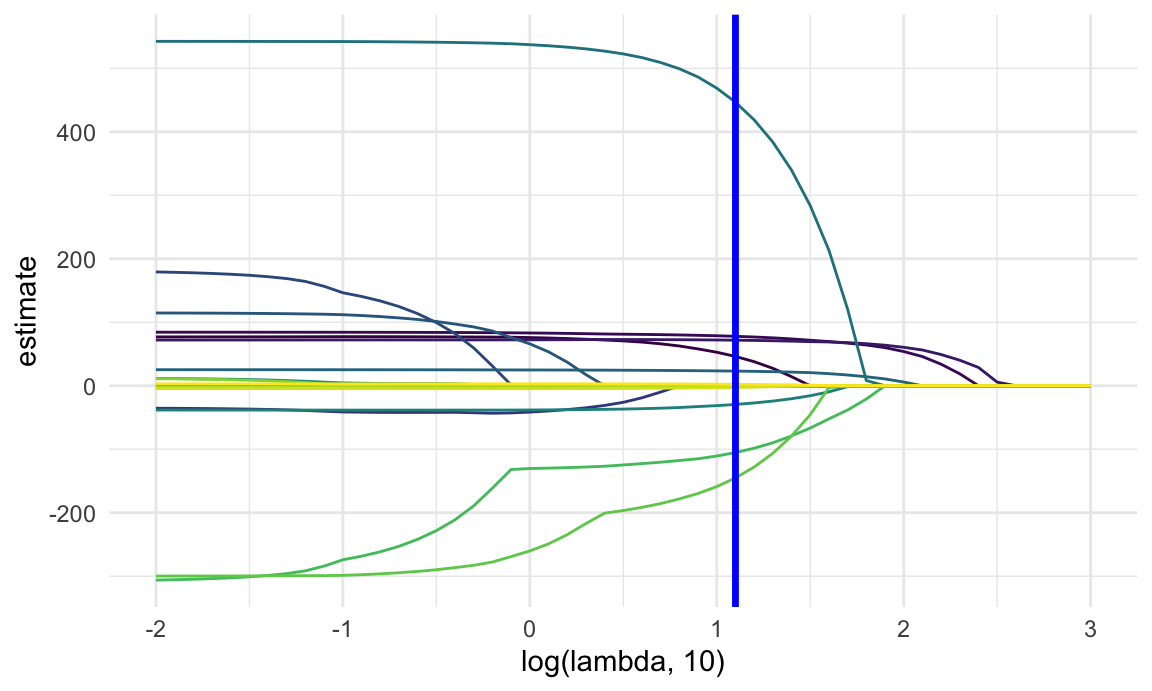
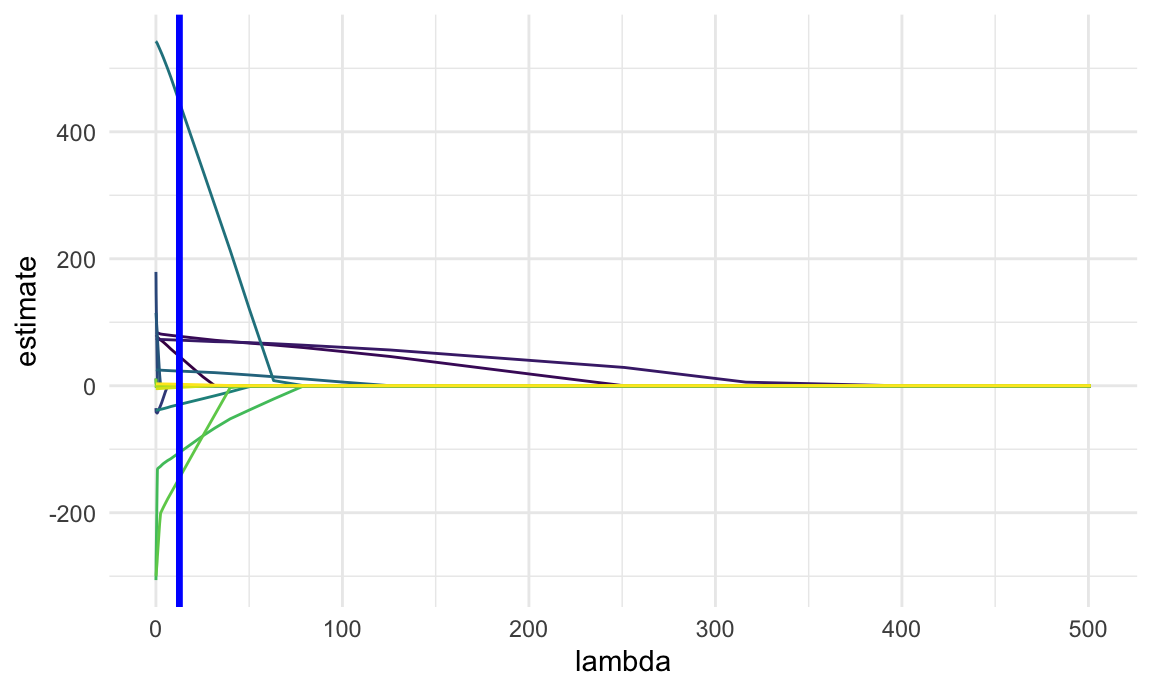
stat learning updates

diff --git a/stat_learning.html b/stat_learning.html
@@ -438,6 +438,16 @@ various goals, including prediction, pattern recognition, and
 classification; they also vary in complexity and interpretability. This
 lecture is intended to provide a very broad overview of two methods:
 lasso and k-means clustering.</p>
+<pre><code>## ── Attaching core tidyverse packages ──────────────────────── tidyverse 2.0.0 ──
+## ✔ dplyr     1.1.4     ✔ readr     2.1.5
+## ✔ forcats   1.0.0     ✔ stringr   1.5.1
+## ✔ ggplot2   3.5.1     ✔ tibble    3.2.1
+## ✔ lubridate 1.9.3     ✔ tidyr     1.3.1
+## ✔ purrr     1.0.2     
+## ── Conflicts ────────────────────────────────────────── tidyverse_conflicts() ──
+## ✖ dplyr::filter() masks stats::filter()
+## ✖ dplyr::lag()    masks stats::lag()
+## ℹ Use the conflicted package (&lt;http://conflicted.r-lib.org/&gt;) to force all conflicts to become errors</code></pre>
 <div id="some-slides" class="section level2">
 <h2>Some slides</h2>
 <script async class="speakerdeck-embed" data-id="911acc341b434b02b24df1fdab954c7e" data-ratio="1.77777777777778" src="//speakerdeck.com/assets/embed.js"></script>
@@ -475,20 +485,32 @@ from the result.</p>
   read_csv(&quot;data/birthweight.csv&quot;) |&gt; 
   janitor::clean_names() |&gt;
   mutate(
-    babysex = as.factor(babysex),
-    babysex = fct_recode(babysex, &quot;male&quot; = &quot;1&quot;, &quot;female&quot; = &quot;2&quot;),
-    frace = as.factor(frace),
-    frace = fct_recode(
-      frace, &quot;white&quot; = &quot;1&quot;, &quot;black&quot; = &quot;2&quot;, &quot;asian&quot; = &quot;3&quot;, 
-      &quot;puerto rican&quot; = &quot;4&quot;, &quot;other&quot; = &quot;8&quot;),
-    malform = as.logical(malform),
-    mrace = as.factor(mrace),
-    mrace = fct_recode(
-      mrace, &quot;white&quot; = &quot;1&quot;, &quot;black&quot; = &quot;2&quot;, &quot;asian&quot; = &quot;3&quot;, 
-      &quot;puerto rican&quot; = &quot;4&quot;)) |&gt; 
+    babysex = 
+        case_match(babysex,
+            1 ~ &quot;male&quot;,
+            2 ~ &quot;female&quot;
+        ),
+    babysex = fct_infreq(babysex),
+    frace = 
+        case_match(frace,
+            1 ~ &quot;white&quot;,
+            2 ~ &quot;black&quot;, 
+            3 ~ &quot;asian&quot;, 
+            4 ~ &quot;puerto rican&quot;, 
+            8 ~ &quot;other&quot;),
+    frace = fct_infreq(frace),
+    mrace = 
+        case_match(mrace,
+            1 ~ &quot;white&quot;,
+            2 ~ &quot;black&quot;, 
+            3 ~ &quot;asian&quot;, 
+            4 ~ &quot;puerto rican&quot;,
+            8 ~ &quot;other&quot;),
+    mrace = fct_infreq(mrace),
+    malform = as.logical(malform)) |&gt; 
   sample_n(200)</code></pre>
 <pre><code>## Rows: 4342 Columns: 20
-## ── Column specification ────────────────────────────────────────────────────────────────────────────────────────────────
+## ── Column specification ────────────────────────────────────────────────────────
 ## Delimiter: &quot;,&quot;
 ## dbl (20): babysex, bhead, blength, bwt, delwt, fincome, frace, gaweeks, malf...
 ## 
@@ -508,7 +530,7 @@ grid <code>lambda</code>, and then compare the fits using cross
 validation. I chose this grid using the trusty “try things until it
 looks right” method; <code>glmnet</code> will pick something reasonable
 by default if you prefer that.</p>
-<pre class="r"><code>lambda = 10^(seq(3, -2, -0.1))
+<pre class="r"><code>lambda = 10^(seq(-2, 2.75, 0.1))
 
 lasso_fit =
   glmnet(x, y, lambda = lambda)
@@ -516,7 +538,7 @@ lasso_fit =
 lasso_cv =
   cv.glmnet(x, y, lambda = lambda)
 
-lambda_opt = lasso_cv$lambda.min</code></pre>
+lambda_opt = lasso_cv[[&quot;lambda.min&quot;]]</code></pre>
 <p>The plot below shows coefficient estimates corresponding to a subset
 of the predictors in the dataset – these are predictors that have
 non-zero coefficients for at least one tuning parameter value in the
@@ -528,9 +550,9 @@ determined using cross validation, is shown by a vertical blue line.</p>
   select(term, lambda, estimate) |&gt; 
   complete(term, lambda, fill = list(estimate = 0) ) |&gt; 
   filter(term != &quot;(Intercept)&quot;) |&gt; 
-  ggplot(aes(x = log(lambda, 10), y = estimate, group = term, color = term)) + 
+  ggplot(aes(x = lambda, y = estimate, group = term, color = term)) + 
   geom_path() + 
-  geom_vline(xintercept = log(lambda_opt, 10), color = &quot;blue&quot;, size = 1.2) +
+  geom_vline(xintercept = lambda_opt, color = &quot;blue&quot;, size = 1.2) +
   theme(legend.position = &quot;none&quot;)</code></pre>
 <p><img src="stat_learning_files/figure-html/unnamed-chunk-5-1.png" width="90%" /></p>
 <p>The next plot shows the CV curve itself. This is relatively shallow –
@@ -579,11 +601,11 @@ information about pokemon. The full dataset contains several variables
 we won’t address). To make results easy to visualize, we look only at
 <code>hp</code> and <code>speed</code>; a scatterplot is below.</p>
 <pre class="r"><code>poke_df = 
-  read_csv(&quot;./data/pokemon.csv&quot;) |&gt; 
+  read_csv(&quot;data/pokemon.csv&quot;) |&gt; 
   janitor::clean_names() |&gt; 
   select(hp, speed)</code></pre>
 <pre><code>## Rows: 800 Columns: 13
-## ── Column specification ────────────────────────────────────────────────────────────────────────────────────────────────
+## ── Column specification ────────────────────────────────────────────────────────
 ## Delimiter: &quot;,&quot;
 ## chr (3): Name, Type 1, Type 2
 ## dbl (9): #, Total, HP, Attack, Defense, Sp. Atk, Sp. Def, Speed, Generation
@@ -708,9 +730,9 @@ process we’ll focus on is:</p>
 </ul>
 <p>Below we import and plot the trajectory data.</p>
 <pre class="r"><code>traj_data = 
-  read_csv(&quot;./data/trajectories.csv&quot;)</code></pre>
+  read_csv(&quot;data/trajectories.csv&quot;)</code></pre>
 <pre><code>## Rows: 1600 Columns: 3
-## ── Column specification ────────────────────────────────────────────────────────────────────────────────────────────────
+## ── Column specification ────────────────────────────────────────────────────────
 ## Delimiter: &quot;,&quot;
 ## dbl (3): subj, week, value
 ## 
@@ -727,7 +749,7 @@ extract estimates, and format the data for k-means clustering.</p>
   traj_data |&gt; 
   nest(data = week:value) |&gt; 
   mutate(
-    models = map(data, \(df) lm(value ~ week, data = df)),
+    models = map(data, \(x) lm(value ~ week, data = x)),
     result = map(models, broom::tidy)
   ) |&gt; 
   select(subj, result) |&gt; 
